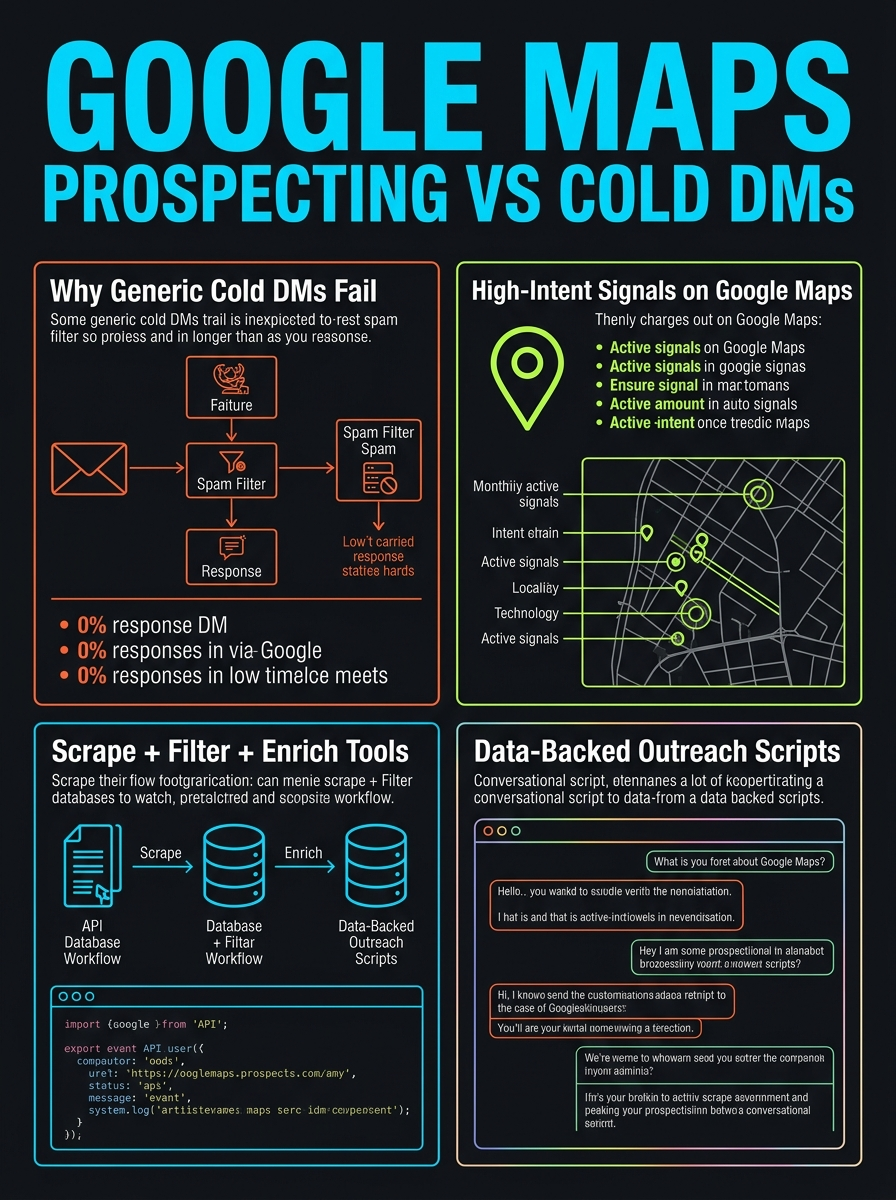
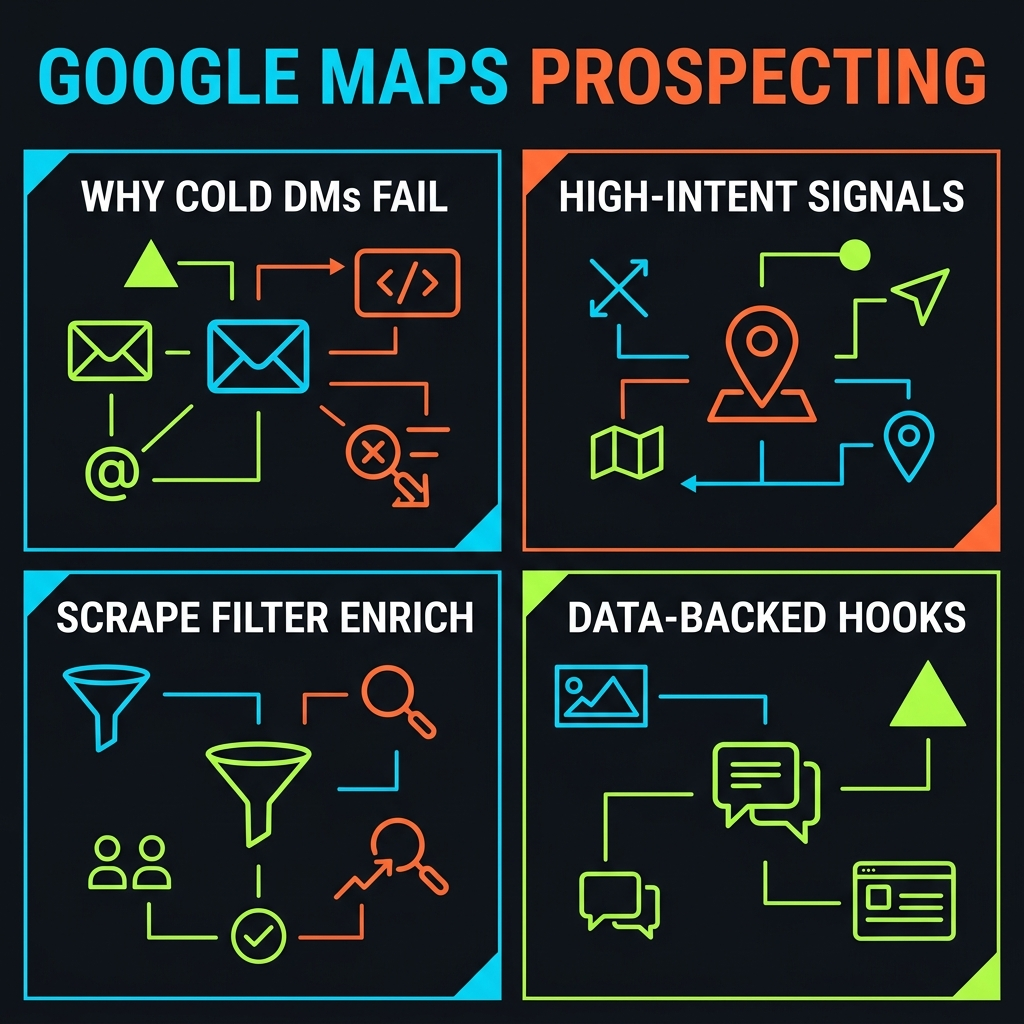
slides: add google-maps-prospecting-vs-cold-dms

diff --git a/_slides/google-maps-prospecting-vs-cold-dms.md b/_slides/google-maps-prospecting-vs-cold-dms.md
@@ -1,0 +1,375 @@
+---
+marp: true
+theme: default
+paginate: true
+title: "Google Maps Prospecting vs Cold DMs"
+style: |
+  :root {
+    --ink:#1e293b; --ink-dim:#475569; --muted:#94a3b8;
+    --paper:#fff; --soft:#f1f5f9; --soft-2:#e2e8f0;
+    --accent:#3b82f6; --accent-deep:#1e3a8a; --accent-wash:#dbeafe; --gold:#d4af37;
+    --danger:#dc2626; --danger-wash:#fee2e2; --danger-ink:#991b1b;
+    --success:#16a34a; --success-wash:#dcfce7; --success-ink:#14532d;
+    --warning:#f59e0b; --warning-wash:#fef3c7; --warning-ink:#92400e;
+    --shadow-sm:0 1px 2px rgba(15,23,42,.06);
+    --shadow-md:0 4px 12px rgba(15,23,42,.08);
+    --shadow-lg:0 12px 28px rgba(15,23,42,.12);
+    --radius:12px; --radius-sm:8px;
+  }
+  section {
+    display:flex; flex-direction:column; justify-content:space-between;
+    padding:56px 64px 44px; font-family:system-ui,-apple-system,"Segoe UI",sans-serif;
+    color:var(--ink); position:relative;
+  }
+  section::before {
+    content:''; position:absolute; top:28px; left:64px;
+    width:40px; height:3px; background:var(--accent); border-radius:2px;
+  }
+  section h2 { font-size:28px; margin:0 0 4px; color:var(--ink); font-weight:700; }
+  .subhead { color:var(--ink-dim); font-size:15px; margin:0 0 8px; }
+  .infographic { flex:1; display:flex; align-items:center; justify-content:center; min-height:0; }
+  .takeaway {
+    border-left:4px solid var(--accent); background:var(--soft);
+    padding:12px 18px; border-radius:0 var(--radius-sm) var(--radius-sm) 0;
+    font-size:14px; line-height:1.5;
+  }
+  .takeaway b { color:var(--accent); }
+  .card {
+    background:var(--paper); border-radius:var(--radius);
+    box-shadow:var(--shadow-md); padding:18px 20px;
+    border-left:4px solid var(--accent); box-sizing:border-box;
+  }
+  .card.success { border-left-color:var(--success); }
+  .card.danger  { border-left-color:var(--danger); }
+  .card.warning { border-left-color:var(--warning); }
+  .card.gold    { border-left-color:var(--gold); }
+  .card .label { font-size:10px; letter-spacing:.08em; text-transform:uppercase; color:var(--muted); margin:0 0 4px; }
+  .card h3 { margin:0 0 6px; font-size:17px; color:var(--ink); font-weight:700; }
+  .card p  { margin:0 0 4px; font-size:13px; color:var(--ink-dim); line-height:1.5; }
+  .card ul { margin:0; padding-left:16px; font-size:13px; color:var(--ink-dim); line-height:1.9; }
+  .card.compact { padding:10px 14px; }
+  .card.compact h3 { font-size:14px; margin-bottom:4px; }
+  .card.compact p, .card.compact .label { font-size:11px; }
+  .bento { display:grid; gap:12px; width:100%; align-self:stretch; }
+  .bento.cols-2 { grid-template-columns:1fr 1fr; }
+  .bento.cols-3 { grid-template-columns:1fr 1fr 1fr; }
+  .bento.cols-4 { grid-template-columns:repeat(4,1fr); }
+  .bento.cols-5 { grid-template-columns:repeat(5,1fr); }
+  .img-card { margin:0; padding:8px; background:var(--paper); border-radius:var(--radius); box-shadow:var(--shadow-lg); max-width:100%; max-height:100%; display:flex; flex-direction:column; align-items:center; min-height:0; box-sizing:border-box; }
+  .img-card img { display:block; max-width:100%; max-height:100%; width:auto; height:auto; object-fit:contain; margin:0 auto; border-radius:var(--radius-sm); min-height:0; }
+  .img-card figcaption { font-size:11px; color:var(--muted); padding:8px 6px 2px; text-align:center; flex-shrink:0; }
+  .src { position:absolute; bottom:20px; left:64px; font-size:10px; color:var(--muted); letter-spacing:.02em; }
+  section.cheatsheet { padding:0; }
+  section.cheatsheet::before { display:none; }
+  section.title {
+    background:linear-gradient(135deg,#0f172a 0%,var(--accent-deep) 100%);
+    color:white; justify-content:center;
+  }
+  section.title::before { display:none; }
+  section.title h1 { font-size:44px; color:white; margin:0 0 16px; line-height:1.15; font-weight:800; }
+  section.title .tag { font-size:18px; color:rgba(255,255,255,.75); margin:0; font-weight:400; }
+  section.title .mark { width:56px; height:4px; background:var(--gold); border-radius:2px; margin-bottom:20px; }
+---
+
+<!-- _class: title -->
+
+![bg opacity:.25](assets/google-maps-prospecting-vs-cold-dms-cover.png)
+
+<div class="mark"></div>
+
+# หาลูกค้าผ่าน Google Maps<br>ทำไมได้ผลกว่า Cold DM
+
+<p class="tag">เจาะกลุ่มเว็บไซต์พัง รีวิวลบ ด้วย Prospecting Tools</p>
+
+<!-- Speaker: 30-second intro — cold DM ตายเพราะ generic, Google Maps ให้สัญญาณจริงที่ B2B database มองข้าม. -->
+
+---
+
+<!-- _class: cheatsheet -->
+<!-- _backgroundColor: #f8f7f4 -->
+
+![bg fit](assets/google-maps-prospecting-vs-cold-dms-cheatsheet.png)
+
+<!-- Speaker: 60-second cheatsheet orientation — ชี้ 4 panel หลักก่อนเข้าเนื้อหา. -->
+
+---
+
+## TL;DR
+
+<p class="subhead">Cold DM แบบ generic ตาย — Google Maps + prospecting tools คือทางออก</p>
+
+<div class="infographic">
+<svg viewBox="0 0 1100 380" width="100%" xmlns="http://www.w3.org/2000/svg">
+  <rect x="60" y="40" width="980" height="300" rx="16" fill="var(--paper)" stroke="var(--soft-2)" stroke-width="1.5" style="filter:drop-shadow(0 4px 12px rgba(15,23,42,.08))"/>
+  <rect x="60" y="40" width="8" height="300" rx="4" fill="var(--accent)"/>
+  <circle cx="148" cy="190" r="40" fill="var(--accent)" opacity=".12"/>
+  <circle cx="148" cy="190" r="28" fill="var(--accent)"/>
+  <text x="148" y="196" font-size="18" fill="var(--paper)" text-anchor="middle" dominant-baseline="central" font-family="system-ui" font-weight="700">i</text>
+  <text x="220" y="150" font-size="20" font-weight="700" fill="var(--ink)" font-family="system-ui">Avg cold email reply rate: ~4.1%</text>
+  <text x="220" y="182" font-size="15" fill="var(--ink-dim)" font-family="system-ui">Range 1-8.5%; declined 5.1% (2024) to 3.43% (2026)</text>
+  <text x="220" y="214" font-size="15" fill="var(--ink-dim)" font-family="system-ui">Google Maps = database of every real storefront</text>
+  <text x="220" y="246" font-size="15" fill="var(--muted)" font-family="system-ui">Target: no website / broken site / negative reviews</text>
+  <text x="220" y="278" font-size="15" fill="var(--muted)" font-family="system-ui">Filter with prospecting tools, outreach with real data</text>
+</svg>
+</div>
+
+<div class="takeaway"><b>★ Takeaway:</b> เจาะกลุ่มที่มีสัญญาณอ่อนแอจริง แล้วอ้างอิงข้อมูลจริงตอนทัก — ไม่ใช่ยิงแบบสุ่ม</div>
+
+<!-- Speaker: ตั้งกรอบทั้ง deck — ทำไมต้องเปลี่ยนจาก volume-based เป็น signal-based. -->
+
+---
+
+## ทำไม B2B Database มาตรฐานมองข้ามธุรกิจท้องถิ่น
+
+![bg right:40% contain](assets/google-maps-prospecting-vs-cold-dms-why-google-maps.png)
+
+<p class="subhead">ZoomInfo, Apollo ถูกออกแบบมาสำหรับบริษัท digital-first ที่มี funding — ธุรกิจท้องถิ่นไม่มีข้อมูลอยู่ในนั้นเลย</p>
+
+<div class="infographic">
+<svg viewBox="0 0 700 320" width="100%" xmlns="http://www.w3.org/2000/svg">
+  <rect x="30" y="40" width="280" height="240" rx="12" fill="var(--soft)" stroke="var(--soft-2)" stroke-width="1.5"/>
+  <text x="170" y="80" font-size="15" font-weight="700" fill="var(--muted)" text-anchor="middle" font-family="system-ui">B2B DB</text>
+  <ellipse cx="170" cy="150" rx="60" ry="18" fill="none" stroke="var(--muted)" stroke-width="2" opacity=".5"/>
+  <text x="170" y="220" font-size="12" fill="var(--muted)" text-anchor="middle" font-family="system-ui">no local-biz data</text>
+  <rect x="360" y="40" width="280" height="240" rx="12" fill="var(--accent-wash)" stroke="var(--accent)" stroke-width="2"/>
+  <text x="500" y="80" font-size="15" font-weight="700" fill="var(--accent-deep)" text-anchor="middle" font-family="system-ui">Google Maps</text>
+  <circle cx="500" cy="160" r="10" fill="var(--accent)"/>
+  <path d="M500 145 L500 175 M485 160 L515 160" stroke="var(--paper)" stroke-width="2"/>
+  <text x="500" y="220" font-size="12" fill="var(--accent-deep)" text-anchor="middle" font-family="system-ui">every real storefront</text>
+</svg>
+</div>
+
+<div class="takeaway"><b>★ Takeaway:</b> Google Maps ให้สัญญาณที่มองเห็นได้จริง (rating, review count, website) แทน intent data ที่ไม่มีอยู่</div>
+
+<!-- Speaker: อธิบาย gap ของ traditional prospecting database ก่อนเข้าสู่ signal เฉพาะ. -->
+
+---
+
+## ทำไม Cold DM แบบ Generic ถึงได้ผลต่ำ
+
+![bg right:40% contain](assets/google-maps-prospecting-vs-cold-dms-why-cold-dms-fail.png)
+
+<p class="subhead">Personalization คือตัวแปรตัดสินผล — ไม่ใช่จำนวนข้อความที่ยิงออกไป</p>
+
+<div class="infographic">
+<svg viewBox="0 0 700 320" width="100%" xmlns="http://www.w3.org/2000/svg">
+  <rect x="40" y="40" width="620" height="50" rx="8" fill="var(--soft)"/>
+  <rect x="40" y="40" width="80" height="50" rx="8" fill="var(--muted)" opacity=".3"/>
+  <text x="150" y="70" font-size="14" fill="var(--ink-dim)" font-family="system-ui">Generic template: ~4.1% avg reply</text>
+  <rect x="40" y="110" width="620" height="50" rx="8" fill="var(--soft)"/>
+  <rect x="40" y="110" width="280" height="50" rx="8" fill="var(--accent)" opacity=".3"/>
+  <text x="150" y="140" font-size="14" fill="var(--ink)" font-family="system-ui">Personalized: up to ~18% reply</text>
+  <rect x="40" y="180" width="620" height="50" rx="8" fill="var(--soft)"/>
+  <rect x="40" y="180" width="580" height="50" rx="8" fill="var(--accent)"/>
+  <text x="150" y="210" font-size="14" fill="var(--paper)" font-family="system-ui" font-weight="700">Top campaigns: 40-50% reply</text>
+  <text x="40" y="260" font-size="13" fill="var(--muted)" font-family="system-ui">81% of decision-makers engage only when message is tailored</text>
+</svg>
+</div>
+
+<div class="takeaway"><b>★ Takeaway:</b> Personalized email เพิ่ม response rate ~32% เทียบ generic template</div>
+
+<!-- Speaker: อ้างอิงตัวเลขจาก cold-email benchmark 2026 — ชี้ให้เห็น gap ชัดเจน. -->
+
+---
+
+## สัญญาณ High-Intent Lead บน Google Maps
+
+<p class="subhead">มองหาความเปราะบางที่มองเห็นได้ตรงๆ ก่อนติดต่อ</p>
+
+<div class="infographic" style="align-items:stretch;">
+<div class="bento cols-3">
+  <div class="card danger">
+    <p class="label">Signal 1</p>
+    <h3>ไม่มีเว็บไซต์</h3>
+    <p>พึ่งพา offline traffic หรือ directory ล้วนๆ — เสนอสร้างเว็บ = แก้ lead loss ตรงจุด</p>
+  </div>
+  <div class="card warning">
+    <p class="label">Signal 2</p>
+    <h3>เว็บพัง / ล้าสมัย</h3>
+    <p>มีเว็บแต่ใช้งานไม่ได้จริง — mobile ไม่รองรับ หรือไม่มี contact form</p>
+  </div>
+  <div class="card danger">
+    <p class="label">Signal 3</p>
+    <h3>รีวิวลบ + volume สูง</h3>
+    <p>250 รีวิว 3.6 ดาว = demand จริง + pain point ชัดเจน เหมาะกับ reputation/SEO</p>
+  </div>
+</div>
+</div>
+
+<div class="takeaway"><b>★ Takeaway:</b> รีวิวเยอะ + คะแนนต่ำ พิสูจน์ demand จริง ไม่ใช่แค่ธุรกิจแย่</div>
+
+<!-- Speaker: 3 สัญญาณหลักที่ mine ได้ตรงจาก listing โดยไม่ต้องใช้ intent data. -->
+
+---
+
+## Prospecting Tools: Scrape → Filter → Enrich
+
+<p class="subhead">ข้อมูลดิบจาก Maps มีแค่ชื่อกับเบอร์ — ต้องผ่าน 3 ขั้นก่อน outreach</p>
+
+<div class="infographic">
+<svg viewBox="0 0 1100 320" width="100%" xmlns="http://www.w3.org/2000/svg">
+  <rect x="40" y="110" width="280" height="100" rx="12" fill="var(--paper)" stroke="var(--soft-2)" stroke-width="1.5" style="filter:drop-shadow(var(--shadow-sm))"/>
+  <text x="180" y="145" font-size="16" font-weight="700" fill="var(--ink)" text-anchor="middle" font-family="system-ui">1. Scrape</text>
+  <text x="180" y="170" font-size="12" fill="var(--ink-dim)" text-anchor="middle" font-family="system-ui">Outscraper / Clay / Apify</text>
+  <text x="180" y="190" font-size="12" fill="var(--muted)" text-anchor="middle" font-family="system-ui">by niche + geography</text>
+  <path d="M330 160 L400 160" stroke="var(--muted)" stroke-width="2" marker-end="url(#arr)"/>
+  <rect x="410" y="110" width="280" height="100" rx="12" fill="var(--paper)" stroke="var(--soft-2)" stroke-width="1.5" style="filter:drop-shadow(var(--shadow-sm))"/>
+  <text x="550" y="145" font-size="16" font-weight="700" fill="var(--ink)" text-anchor="middle" font-family="system-ui">2. Filter</text>
+  <text x="550" y="170" font-size="12" fill="var(--ink-dim)" text-anchor="middle" font-family="system-ui">No-website / low-rating</text>
+  <text x="550" y="190" font-size="12" fill="var(--muted)" text-anchor="middle" font-family="system-ui">isolate vulnerability signal</text>
+  <path d="M700 160 L770 160" stroke="var(--muted)" stroke-width="2" marker-end="url(#arr)"/>
+  <rect x="780" y="110" width="280" height="100" rx="12" fill="var(--accent-wash)" stroke="var(--accent)" stroke-width="2" style="filter:drop-shadow(var(--shadow-md))"/>
+  <text x="920" y="145" font-size="16" font-weight="700" fill="var(--accent-deep)" text-anchor="middle" font-family="system-ui">3. Enrich</text>
+  <text x="920" y="170" font-size="12" fill="var(--accent-deep)" text-anchor="middle" font-family="system-ui">find owner + verified email</text>
+  <text x="920" y="190" font-size="12" fill="var(--accent-deep)" text-anchor="middle" font-family="system-ui">contactable lead</text>
+  <defs><marker id="arr" markerWidth="8" markerHeight="8" refX="4" refY="4" orient="auto"><path d="M0 0 L8 4 L0 8 Z" fill="var(--muted)"/></marker></defs>
+</svg>
+</div>
+
+<div class="takeaway"><b>★ Takeaway:</b> Pin บนแผนที่ยังไม่ใช่ lead — ต้อง enrich หา owner + verified contact ก่อนทัก</div>
+
+<!-- Speaker: ชี้ cost-effective pipeline — scraper ตัวหนึ่ง + enrichment อีกตัวสำหรับ agency ต่ำกว่า 50K lead/เดือน. -->
+
+---
+
+## Outreach: Generic Pitch vs Data-Backed Hook
+
+<p class="subhead">Hook ที่อ้าง signal เฉพาะเจาะจง ลด rejection ได้ชัดเจนกว่า</p>
+
+<div class="infographic">
+<svg viewBox="0 0 1100 380" width="100%" xmlns="http://www.w3.org/2000/svg">
+  <rect x="40" y="20" width="490" height="340" rx="12" fill="var(--paper)" stroke="var(--soft-2)" stroke-width="1.5" style="filter:drop-shadow(var(--shadow-sm))"/>
+  <rect x="40" y="20" width="490" height="56" rx="12" fill="var(--soft)" opacity=".8"/>
+  <text x="285" y="54" font-size="17" font-weight="700" fill="var(--ink-dim)" text-anchor="middle" font-family="system-ui">Generic Pitch</text>
+  <text x="80" y="120" font-size="14" fill="var(--ink-dim)" font-family="system-ui">"Hi, I help businesses</text>
+  <text x="80" y="145" font-size="14" fill="var(--ink-dim)" font-family="system-ui">like yours grow online..."</text>
+  <text x="80" y="200" font-size="13" fill="var(--muted)" font-family="system-ui">No evidence of research</text>
+  <text x="80" y="230" font-size="13" fill="var(--muted)" font-family="system-ui">Reads as spam / ignored</text>
+  <rect x="570" y="20" width="490" height="340" rx="12" fill="var(--paper)" stroke="var(--accent)" stroke-width="2" style="filter:drop-shadow(var(--shadow-md))"/>
+  <rect x="570" y="20" width="490" height="56" rx="12" fill="var(--accent)" opacity=".08"/>
+  <text x="815" y="54" font-size="17" font-weight="700" fill="var(--accent)" text-anchor="middle" font-family="system-ui">Data-Backed Hook</text>
+  <text x="610" y="120" font-size="14" fill="var(--ink)" font-family="system-ui">"Noticed on Google Maps</text>
+  <text x="610" y="145" font-size="14" fill="var(--ink)" font-family="system-ui">you don't have a website —</text>
+  <text x="610" y="170" font-size="14" fill="var(--ink)" font-family="system-ui">any plans to build one?"</text>
+  <text x="610" y="225" font-size="13" fill="var(--accent-deep)" font-family="system-ui">Proves real research done</text>
+  <text x="610" y="255" font-size="13" fill="var(--accent-deep)" font-family="system-ui">Feels like local consultation</text>
+  <circle cx="550" cy="190" r="28" fill="var(--accent)"/>
+  <text x="550" y="195" font-size="14" font-weight="700" fill="var(--paper)" text-anchor="middle" dominant-baseline="central" font-family="system-ui">VS</text>
+</svg>
+</div>
+
+<div class="takeaway"><b>★ Takeaway:</b> รีวิวลบ — เข้าหาด้วยความเข้าใจ ไม่ตำหนิ แล้วเสนอช่วยจัดการ reputation</div>
+
+<!-- Speaker: ยกตัวอย่าง script จริงจากวิดีโอต้นฉบับ — no-website hook + negative-review hook. -->
+
+---
+
+## User Guide: 7 Steps จาก Lead สู่ Outreach
+
+<p class="subhead">Workflow เต็มตั้งแต่กำหนด niche จนถึง foot-in-the-door offer</p>
+
+<div class="infographic" style="align-items:stretch;">
+<div class="bento cols-4">
+  <div class="card compact">
+    <p class="label">1</p>
+    <h3>Niche + Geo</h3>
+    <p>กำหนดหมวดธุรกิจ + พื้นที่</p>
+  </div>
+  <div class="card compact">
+    <p class="label">2</p>
+    <h3>Scrape</h3>
+    <p>ดึง CSV: name, website, rating</p>
+  </div>
+  <div class="card compact">
+    <p class="label">3</p>
+    <h3>Filter</h3>
+    <p>no-website หรือ rating&lt;4.0 + 20+ review</p>
+  </div>
+  <div class="card compact">
+    <p class="label">4</p>
+    <h3>Enrich</h3>
+    <p>หาชื่อเจ้าของ + verified contact</p>
+  </div>
+  <div class="card compact">
+    <p class="label">5</p>
+    <h3>อ่านรีวิว</h3>
+    <p>ดึง signal เฉพาะเจาะจง 1 อย่าง</p>
+  </div>
+  <div class="card compact">
+    <p class="label">6</p>
+    <h3>ส่ง Hook</h3>
+    <p>1-liner อ้าง signal ตรงๆ</p>
+  </div>
+  <div class="card compact gold">
+    <p class="label">7</p>
+    <h3>Foot-in-Door</h3>
+    <p>เสนอ commitment ต่ำก่อน upsell</p>
+  </div>
+</div>
+</div>
+
+<div class="takeaway"><b>★ Takeaway:</b> ทุก step ต้องมี evidence เจาะจงต่อธุรกิจนั้น — ไม่ใช่ template เดียวยิงทุกคน</div>
+
+<!-- Speaker: เดินผ่านทั้ง 7 step แบบเร็ว เน้น step 5-7 ที่เป็นจุดต่างจาก cold DM ทั่วไป. -->
+
+---
+
+## Caveats / Limits
+
+<p class="subhead">ข้อควรระวังก่อนใช้จริง</p>
+
+<div class="infographic" style="align-items:stretch;">
+<div class="bento cols-2">
+  <div class="card warning">
+    <p class="label">Compliance</p>
+    <h3>Scraping ToS + Privacy Law</h3>
+    <p>ตรวจสอบ Google ToS และกฎหมาย data privacy ก่อนใช้ข้อมูลติดต่อเชิงพาณิชย์</p>
+  </div>
+  <div class="card warning">
+    <p class="label">Freshness</p>
+    <h3>ข้อมูลเปลี่ยนตลอดเวลา</h3>
+    <p>Rating/review count เปลี่ยนได้ — lead list เก่าอาจไม่ตรงสถานะปัจจุบัน</p>
+  </div>
+  <div class="card danger">
+    <p class="label">Tone</p>
+    <h3>ระวังฟังดูเหมือนตำหนิ</h3>
+    <p>เข้าหารีวิวลบด้วยน้ำเสียงช่วยเหลือ ไม่ใช่ negative-selling</p>
+  </div>
+  <div class="card">
+    <p class="label">Unverified</p>
+    <h3>ตัวเลข Conversion เฉพาะ</h3>
+    <p>ยังไม่มี source ที่ verify ได้สำหรับ % conversion ของ Maps prospecting โดยตรง</p>
+  </div>
+</div>
+</div>
+
+<div class="takeaway"><b>★ Takeaway:</b> Compliance และ tone สำคัญพอๆ กับเทคนิค prospecting เอง</div>
+
+<!-- Speaker: เน้นย้ำว่า scraping ต้องถูกกฎหมาย และ tone ต้องไม่ negative-selling. -->
+
+---
+
+## Key Takeaways
+
+<p class="subhead">สิ่งที่ต้องจำแม้ข้ามเนื้อหาทั้งหมด</p>
+
+<div class="infographic">
+<svg viewBox="0 0 1100 340" width="100%" xmlns="http://www.w3.org/2000/svg">
+  <circle cx="550" cy="170" r="160" fill="none" stroke="var(--soft-2)" stroke-width="1.5"/>
+  <circle cx="550" cy="170" r="110" fill="none" stroke="var(--accent)" stroke-width="1.5" opacity=".4"/>
+  <circle cx="550" cy="170" r="60" fill="var(--accent)" opacity=".1"/>
+  <circle cx="550" cy="170" r="60" fill="none" stroke="var(--accent)" stroke-width="2"/>
+  <text x="550" y="164" font-size="14" font-weight="700" fill="var(--accent)" text-anchor="middle" font-family="system-ui">Signal</text>
+  <text x="550" y="184" font-size="13" fill="var(--ink)" text-anchor="middle" font-family="system-ui">over volume</text>
+  <text x="380" y="100" font-size="13" fill="var(--ink)" font-family="system-ui" text-anchor="middle">No website /</text>
+  <text x="380" y="120" font-size="12" fill="var(--muted)" font-family="system-ui" text-anchor="middle">negative reviews</text>
+  <text x="730" y="100" font-size="13" fill="var(--ink)" font-family="system-ui" text-anchor="middle">Scrape → Filter</text>
+  <text x="730" y="120" font-size="12" fill="var(--muted)" font-family="system-ui" text-anchor="middle">→ Enrich</text>
+  <text x="220" y="170" font-size="13" fill="var(--muted)" font-family="system-ui" text-anchor="middle">Data-backed</text>
+  <text x="220" y="190" font-size="13" fill="var(--muted)" font-family="system-ui" text-anchor="middle">hook</text>
+  <text x="880" y="170" font-size="13" fill="var(--muted)" font-family="system-ui" text-anchor="middle">Foot-in-door</text>
+  <text x="880" y="190" font-size="13" fill="var(--muted)" font-family="system-ui" text-anchor="middle">offer first</text>
+</svg>
+</div>
+
+<div class="takeaway"><b>★ Takeaway:</b> เจาะกลุ่มที่มี signal อ่อนแอจริง อ้างอิงข้อมูลจริงตอนทัก — ผลลัพธ์ดีกว่ายิง cold DM แบบสุ่มเสมอ</div>
